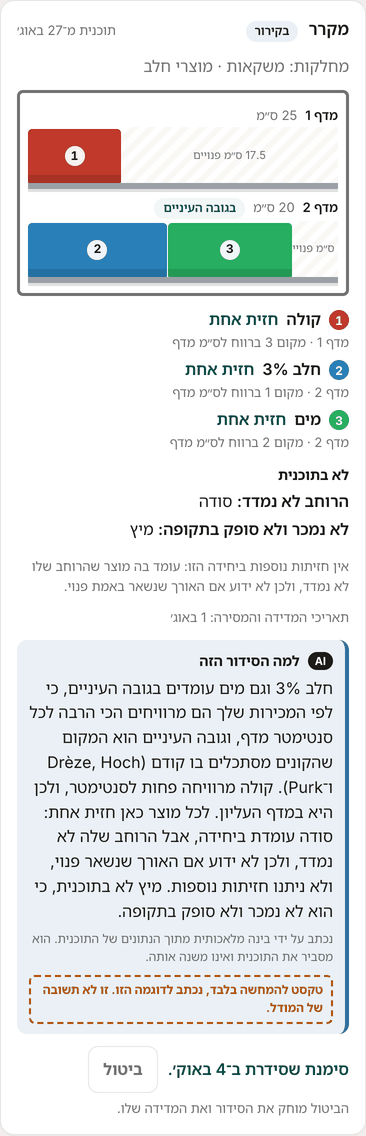
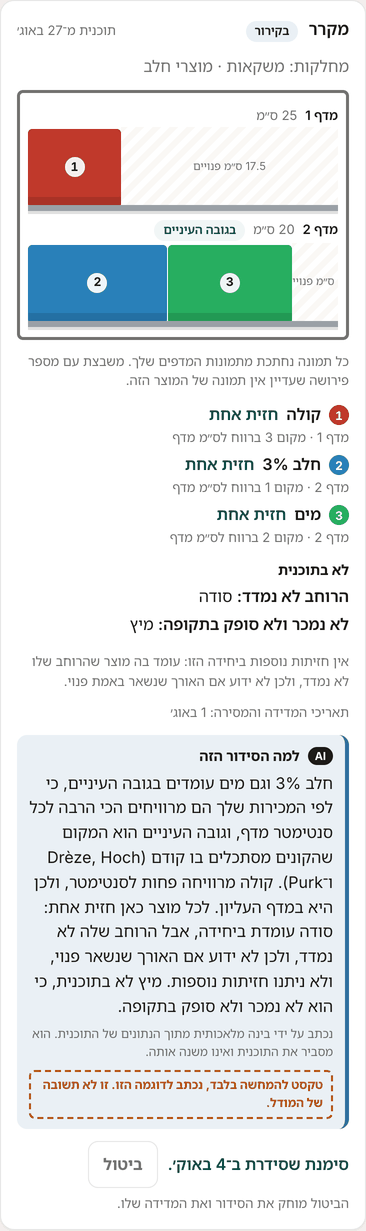
Phase 8 Task 8.8: the mockups with D-33's pictures, and his answers so far
Records D-33 against decision 3, his 2026-10-04 request and "proceed" (no decision), and adds
the pictures screens: the dry unit, the fridge and Store layout, with drawn TEST pictures run
through the engine's pictures section, because no store has sent photos. Decisions 1, 2, 4 and
5 still await him.

diff --git a/docs/reviews/F12-screens-mockups.md b/docs/reviews/F12-screens-mockups.md
@@ -5,7 +5,7 @@ Status: Ready for review — awaiting the repository owner's approval
 Owner: smartshelf-engineer (Phase 8 Task 8.8)
 Parent: [Phase 8 plan](../implementation/phase-8-v4-planogram.md), Task 8.8
 Inputs: [docs/features/F12-planogram/specs/F12-S1-planogram.md (FR-190 … FR-215, AC-172, AC-173, AC-182, AC-189, AC-190, AC-204, NFR-074, C-75), ADR-029, ADR-037, ADR-038, ADR-039, D-30, D-31, D-32, public/examples/shelf-plan-example.json, tests/fixtures/shelf_signals/build.py]
-Updated: 2026-10-05 (redrawn as a planogram on his request; packing per F12-S1 v0.9 as proposed)
+Updated: 2026-10-05 (redrawn as a planogram on his request; packing per F12-S1 v0.9 as proposed; D-33's pictures)
 ---
 
 # F12 screens — mockups for approval
@@ -88,14 +88,14 @@ claude.ai page used for F8 could not be published from this session.
    products. Where a product of unknown size stands on the unit (the fridge), there are no extra
    facings to fill the shelves with, so A keeps the top earners at eye level, as before. B is not
    drawn.
-3. **Product pictures on the tiles, from the store's own photos.** No product picture exists
-   anywhere in the system today, and none may be invented (D-23). They can come from the photos the
-   store already sends: when the team reads each product's width from a shelf photo (OQ-1201), it
-   also crops that product's front from the same photo, and records who cropped it and when. Each
-   tile then shows the store's own product. A product without a picture yet keeps its coloured,
-   numbered tile, as on every screen below, because no store has sent photos. This needs a new
-   requirement in F12-S1 v0.9 and a decision on where the pictures are kept: they are store data,
-   kept beside the layout file and never overwritten by a product update (ADR-036, ADR-037).
+3. **Product pictures on the tiles, from the store's own photos. Decided 2026-10-05 (D-33):**
+   "the picture should be added". The team crops each product's front from the store's own shelf
+   photos, the ones it reads the widths from, and a product without a picture keeps its numbered
+   tile. How it is done is for his approval with the rest: F12-S1 v0.9 FR-216 and FR-217, and
+   ADR-040 (a proposal). Each picture is a file in the store's copy, listed in the layout file with
+   the day it was cropped; only its size and first bytes are checked, and nothing reads what it
+   shows. The screens "With pictures" below use **drawn TEST pictures**, stamped TEST and labelled
+   on the page, because no store has sent photos; a store's tiles show crops of its own photos.
 4. **All the new wording** (the table at the end). The Hebrew and Arabic are the engineer's
    translations and need a daily reader. Three choices in it:
    - **"Facing":** "חזית / חזיתות" in Hebrew and "واجهة / واجهات" in Arabic. The old page
@@ -127,6 +127,14 @@ Each unit with its departments, the day he described it, and each shelf's length
 | العربية | עברית |
 |---|---|
 | ![Filled, Arabic](F12-screens-mockups/layout-filled-ar.png) | ![Filled, Hebrew](F12-screens-mockups/layout-filled-he.png) |
+
+#### With pictures
+
+Store layout lists, per unit, the products whose picture has not been taken yet, as it lists those without a width (FR-217). Drawn TEST pictures.
+
+| العربية | עברית |
+|---|---|
+| ![With pictures, Arabic](F12-screens-mockups/layout-pictures-ar.png) | ![With pictures, Hebrew](F12-screens-mockups/layout-pictures-he.png) |
 
 #### Today: no layout file
 
@@ -161,6 +169,22 @@ This device's record, with its date and Undo, until the nightly publishes it (AD
 | العربية | עברית |
 |---|---|
 | ![After "I've arranged this shelf", Arabic](F12-screens-mockups/plan-arranged-ar.png) | ![After "I've arranged this shelf", Hebrew](F12-screens-mockups/plan-arranged-he.png) |
+
+#### With pictures: the dry unit
+
+Each facing shows the product's picture, with its number in the corner for the key; the Pringles have no picture yet and keep their numbered tile (D-33, FR-217). Drawn TEST pictures, labelled on the page.
+
+| العربية | עברית |
+|---|---|
+| ![With pictures: the dry unit, Arabic](F12-screens-mockups/plan-pictures-dry-ar.png) | ![With pictures: the dry unit, Hebrew](F12-screens-mockups/plan-pictures-dry-he.png) |
+
+#### With pictures: the fridge
+
+The same on a chilled unit. Drawn TEST pictures, labelled on the page.
+
+| العربية | עברית |
+|---|---|
+| ![With pictures: the fridge, Arabic](F12-screens-mockups/plan-pictures-fridge-ar.png) | ![With pictures: the fridge, Hebrew](F12-screens-mockups/plan-pictures-fridge-he.png) |
 
 #### When his store's own figure is in use
 
@@ -263,6 +287,10 @@ Every phrase the two pages add or change, as the dictionaries hold it on the bra
 | `layout.rejected.kind.current` | Current facings | החזיתות הנוכחיות | الواجهات الحالية |
 | `layout.rejected.kind.department` | Department | מחלקה | قسم |
 | `layout.rejected.kind.product` | Product | מוצר | منتج |
+| `layout.noPicture` | Picture not taken yet | עדיין אין תמונה | لم تُلتقط صورة بعد |
+| `layout.allPictured` | Every product has its picture. | לכל המוצרים יש תמונה. | لكل المنتجات صورها. |
+| `layout.rejected.kind.picture` | Product picture | תמונת מוצר | صورة منتج |
+| `shelf.pictures.missing` | Each picture is cut from your own shelf photos. A numbered tile means that product's picture has not been taken yet. | כל תמונה נחתכת מתמונות המדפים שלך. משבצת עם מספר פירושה שעדיין אין תמונה של המוצר הזה. | كل صورة مقصوصة من صور رفوفك. المربع المرقّم يعني أن صورة ذلك المنتج لم تُلتقط بعد. |
 | `layout.rejected.teamNote` | Note for the team: | הערה לצוות: | ملاحظة للفريق: |
 | `shelf.rule.together` | Keep together on one shelf: {names} | לשמור יחד על מדף אחד: {names} | إبقاؤها معًا على رف واحد: {names} |
 | `shelf.rule.togetherDepartment` | Keep the {department} department together on one shelf | לשמור את מחלקת {department} יחד על מדף אחד | إبقاء قسم {department} معًا على رف واحد |
@@ -365,4 +393,10 @@ Every phrase the two pages add or change, as the dictionaries hold it on the bra
 
 ## His answer
 
-_Awaiting the repository owner._
+- **2026-10-04**, shown the first screens, before accepting: the planogram "should look like this
+  but customized to the store that take picture of the shelf", with a picture of a printed
+  planogram. The screens were redrawn as the unit from the front.
+- **2026-10-05**, "proceed": the work went on. Recorded as no decision.
+- **2026-10-05**, "the picture should be added", to decision 3: **D-33**.
+
+Decisions 1, 2, 4 and 5 await him.
